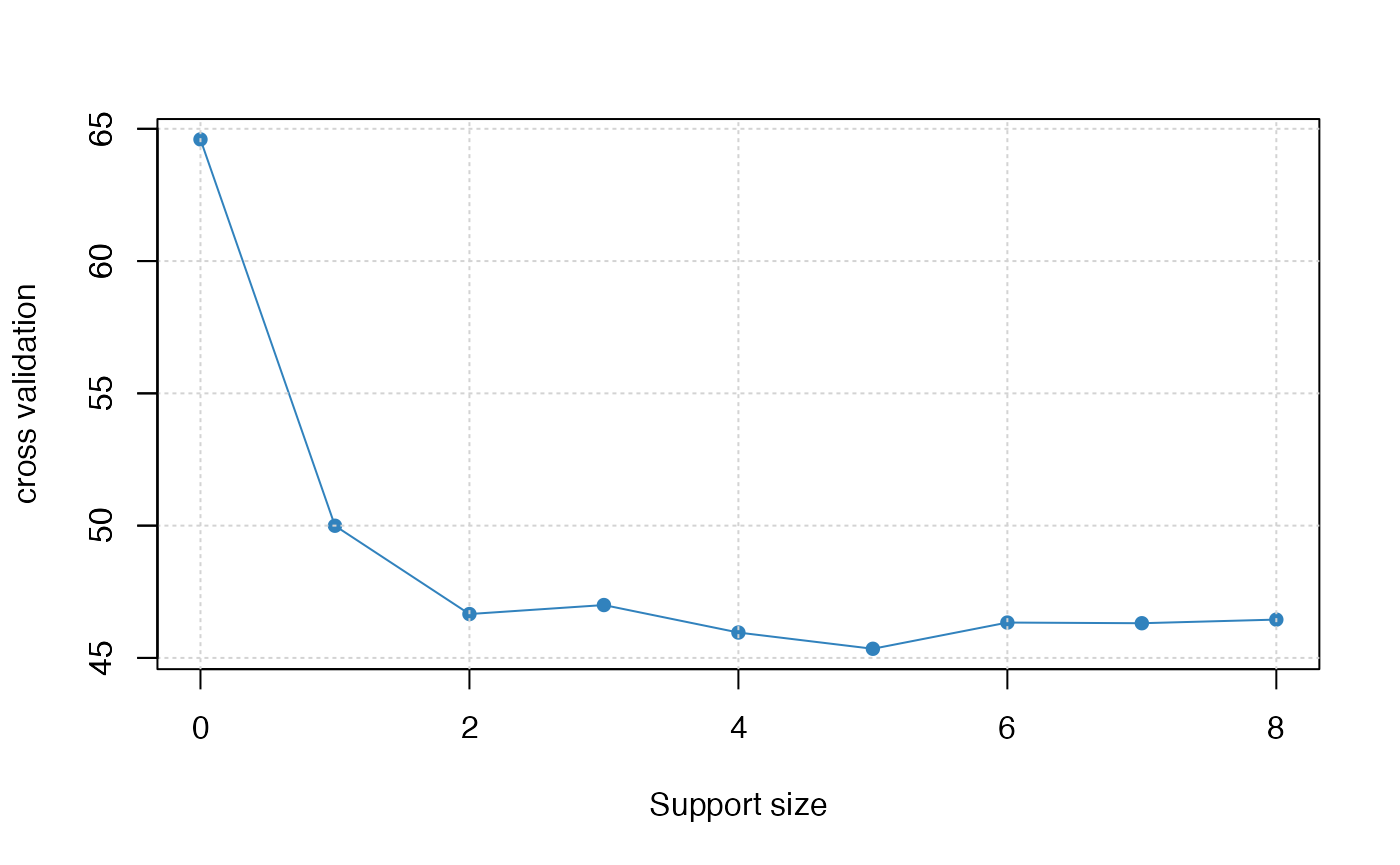
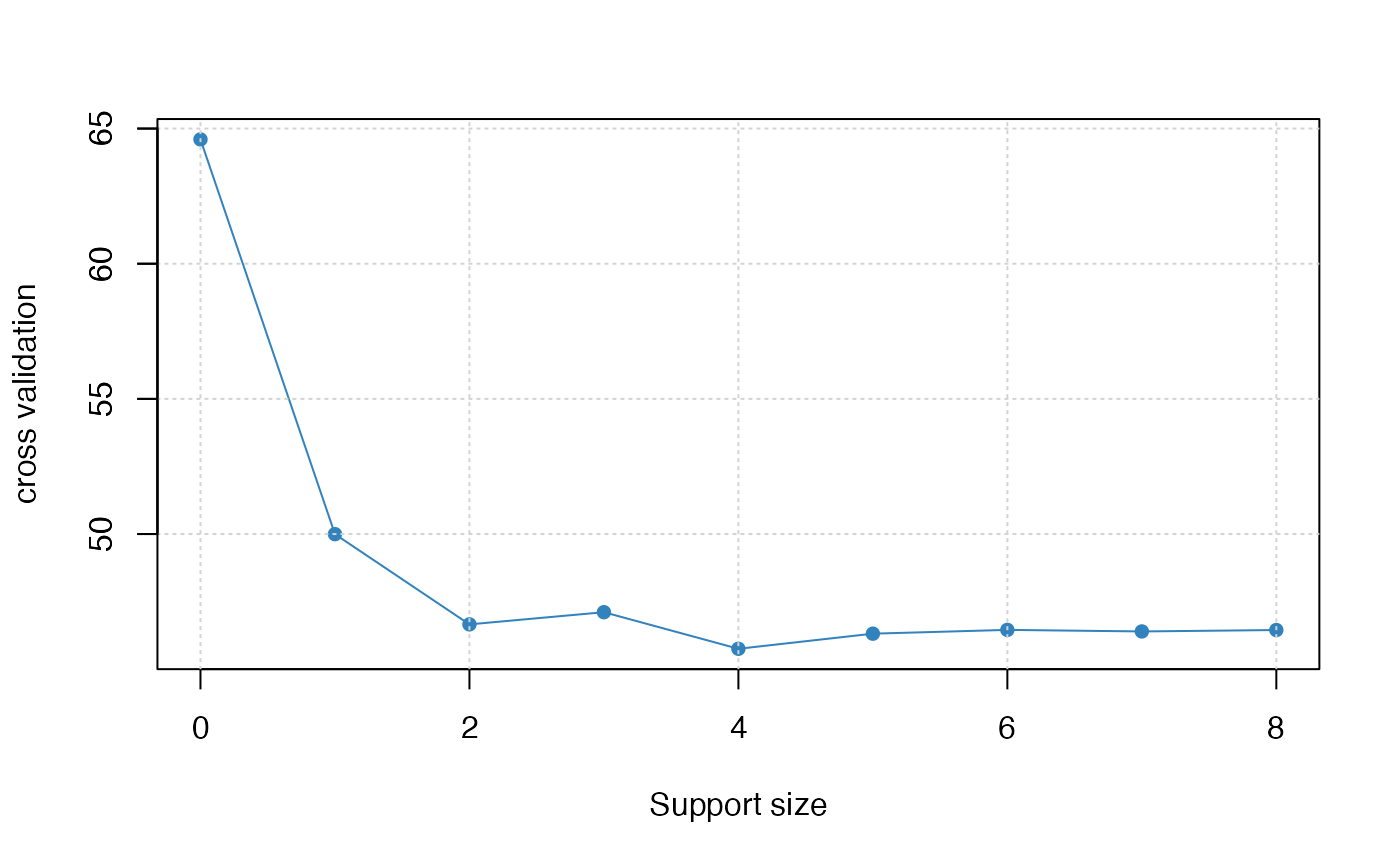
cli-40502-597

diff --git a/articles/v03-classification.html b/articles/v03-classification.html
@@ -265,12 +265,12 @@ i. print the fitted model:</p>
 <span><span class="co">## 1            0 321.9560 64.59866</span></span>
 <span><span class="co">## 2            1 246.5820 49.99585</span></span>
 <span><span class="co">## 3            2 229.6078 46.65819</span></span>
-<span><span class="co">## 4            3 229.5308 46.99849</span></span>
-<span><span class="co">## 5            4 228.9702 45.95916</span></span>
-<span><span class="co">## 6            5 220.1834 45.34507</span></span>
-<span><span class="co">## 7            6 220.0022 46.33645</span></span>
-<span><span class="co">## 8            7 219.9659 46.31131</span></span>
-<span><span class="co">## 9            8 219.9210 46.44845</span></span></code></pre>
+<span><span class="co">## 4            3 224.0843 47.10831</span></span>
+<span><span class="co">## 5            4 220.4441 45.75501</span></span>
+<span><span class="co">## 6            5 220.1834 46.31408</span></span>
+<span><span class="co">## 7            6 220.0022 46.45407</span></span>
+<span><span class="co">## 8            7 219.9602 46.39656</span></span>
+<span><span class="co">## 9            8 219.9210 46.44844</span></span></code></pre>
 <ol start="2" style="list-style-type: lower-roman">
 <li>draw the estimated coefficients on all candidate support size by
 <code><a href="https://rdrr.io/r/stats/coef.html" class="external-link">coef()</a></code> function:</li>
@@ -278,33 +278,33 @@ i. print the fitted model:</p>
 <div class="sourceCode" id="cb12"><pre class="downlit sourceCode r">
 <code class="sourceCode R"><span><span class="fu"><a href="https://rdrr.io/r/stats/coef.html" class="external-link">coef</a></span><span class="op">(</span><span class="va">abess_fit</span><span class="op">)</span></span></code></pre></div>
 <pre><code><span><span class="co">## 9 x 9 sparse Matrix of class "dgCMatrix"</span></span>
-<span><span class="co">##                      0         1          2            3            4</span></span>
-<span><span class="co">## (intercept) -0.3530971  1.158781  2.9213405  3.051182650  3.261927124</span></span>
-<span><span class="co">## Pclass       .          .        -0.7952709 -0.833342489 -0.814632212</span></span>
-<span><span class="co">## Sexmale      .         -2.545075 -2.5818944 -2.593870577 -2.590161192</span></span>
-<span><span class="co">## Age          .          .         .          .            .          </span></span>
-<span><span class="co">## SibSp        .          .         .          .            .          </span></span>
-<span><span class="co">## Parch        .          .         .          .            .          </span></span>
-<span><span class="co">## Fare         .          .         .         -0.001187223 -0.001680436</span></span>
-<span><span class="co">## EmbarkedQ    .          .         .          .            .          </span></span>
-<span><span class="co">## EmbarkedS    .          .         .          .           -0.305263064</span></span>
-<span><span class="co">##                       5            6            7            8</span></span>
-<span><span class="co">## (intercept)  4.85381911  5.112857497  5.091004680  5.079012307</span></span>
-<span><span class="co">## Pclass      -1.00849770 -1.076530668 -1.083610537 -1.085091543</span></span>
-<span><span class="co">## Sexmale     -2.59656529 -2.610623446 -2.609378045 -2.601337079</span></span>
-<span><span class="co">## Age         -0.03672237 -0.037469721 -0.037437108 -0.037259374</span></span>
-<span><span class="co">## SibSp       -0.35770273 -0.339011356 -0.340217327 -0.350406209</span></span>
-<span><span class="co">## Parch        .           .            .            0.053009526</span></span>
-<span><span class="co">## Fare         .          -0.001998009 -0.001938335 -0.002224556</span></span>
-<span><span class="co">## EmbarkedQ    .           .            0.196096062  0.210160986</span></span>
-<span><span class="co">## EmbarkedS   -0.21507393 -0.245371516 -0.210145242 -0.214986229</span></span></code></pre>
+<span><span class="co">##                      0         1          2           3           4           5</span></span>
+<span><span class="co">## (intercept) -0.3530971  1.158781  2.9213405  4.23196071  4.76830134  4.85381911</span></span>
+<span><span class="co">## Pclass       .          .        -0.7952709 -1.01705745 -1.03770046 -1.00849770</span></span>
+<span><span class="co">## Sexmale      .         -2.545075 -2.5818944 -2.51198958 -2.60544822 -2.59656529</span></span>
+<span><span class="co">## Age          .          .         .         -0.02923674 -0.03712932 -0.03672237</span></span>
+<span><span class="co">## SibSp        .          .         .          .          -0.36190220 -0.35770273</span></span>
+<span><span class="co">## Parch        .          .         .          .           .           .         </span></span>
+<span><span class="co">## Fare         .          .         .          .           .           .         </span></span>
+<span><span class="co">## EmbarkedQ    .          .         .          .           .           .         </span></span>
+<span><span class="co">## EmbarkedS    .          .         .          .           .          -0.21507393</span></span>
+<span><span class="co">##                        6            7            8</span></span>
+<span><span class="co">## (intercept)  5.112870189  5.106984422  5.079012311</span></span>
+<span><span class="co">## Pclass      -1.076540803 -1.080872143 -1.085091547</span></span>
+<span><span class="co">## Sexmale     -2.610618146 -2.600190268 -2.601337076</span></span>
+<span><span class="co">## Age         -0.037469295 -0.037121587 -0.037259374</span></span>
+<span><span class="co">## SibSp       -0.339014180 -0.350547546 -0.350406211</span></span>
+<span><span class="co">## Parch        .            0.048198890  0.053009524</span></span>
+<span><span class="co">## Fare        -0.001997874 -0.002237775 -0.002224556</span></span>
+<span><span class="co">## EmbarkedQ    .            .            0.210160985</span></span>
+<span><span class="co">## EmbarkedS   -0.245382497 -0.255782092 -0.214986232</span></span></code></pre>
 <ol start="3" style="list-style-type: lower-roman">
 <li>get the deviance of the estimated model on all candidate support
 sizes via <code><a href="https://rdrr.io/r/stats/deviance.html" class="external-link">deviance()</a></code> function:</li>
 </ol>
 <div class="sourceCode" id="cb14"><pre class="downlit sourceCode r">
 <code class="sourceCode R"><span><span class="fu"><a href="https://rdrr.io/r/stats/deviance.html" class="external-link">deviance</a></span><span class="op">(</span><span class="va">abess_fit</span><span class="op">)</span></span></code></pre></div>
-<pre><code><span><span class="co">## [1] 321.9560 246.5820 229.6078 229.5308 228.9702 220.1834 220.0022 219.9659</span></span>
+<pre><code><span><span class="co">## [1] 321.9560 246.5820 229.6078 224.0843 220.4441 220.1834 220.0022 219.9602</span></span>
 <span><span class="co">## [9] 219.9210</span></span></code></pre>
 <ol start="4" style="list-style-type: lower-roman">
 <li>visualize the change of models with the change of support size via
@@ -332,20 +332,20 @@ the model with support size equals 6.</p>
 <span><span class="fu"><a href="https://rdrr.io/r/utils/str.html" class="external-link">str</a></span><span class="op">(</span><span class="va">best.model</span><span class="op">)</span></span></code></pre></div>
 <pre><code><span><span class="co">## List of 7</span></span>
 <span><span class="co">##  $ beta        :Formal class 'dgCMatrix' [package "Matrix"] with 6 slots</span></span>
-<span><span class="co">##   .. ..@ i       : int [1:4] 0 1 5 7</span></span>
+<span><span class="co">##   .. ..@ i       : int [1:4] 0 1 2 3</span></span>
 <span><span class="co">##   .. ..@ p       : int [1:2] 0 4</span></span>
 <span><span class="co">##   .. ..@ Dim     : int [1:2] 8 1</span></span>
 <span><span class="co">##   .. ..@ Dimnames:List of 2</span></span>
 <span><span class="co">##   .. .. ..$ : chr [1:8] "Pclass" "Sexmale" "Age" "SibSp" ...</span></span>
 <span><span class="co">##   .. .. ..$ : chr "4"</span></span>
-<span><span class="co">##   .. ..@ x       : num [1:4] -0.81463 -2.59016 -0.00168 -0.30526</span></span>
+<span><span class="co">##   .. ..@ x       : num [1:4] -1.0377 -2.6054 -0.0371 -0.3619</span></span>
 <span><span class="co">##   .. ..@ factors : list()</span></span>
-<span><span class="co">##  $ intercept   : num 3.26</span></span>
+<span><span class="co">##  $ intercept   : num 4.77</span></span>
 <span><span class="co">##  $ support.size: num 4</span></span>
-<span><span class="co">##  $ support.vars: chr [1:4] "Pclass" "Sexmale" "Fare" "EmbarkedS"</span></span>
-<span><span class="co">##  $ support.beta: num [1:4] -0.81463 -2.59016 -0.00168 -0.30526</span></span>
-<span><span class="co">##  $ dev         : num 229</span></span>
-<span><span class="co">##  $ tune.value  : num 46</span></span></code></pre>
+<span><span class="co">##  $ support.vars: chr [1:4] "Pclass" "Sexmale" "Age" "SibSp"</span></span>
+<span><span class="co">##  $ support.beta: num [1:4] -1.0377 -2.6054 -0.0371 -0.3619</span></span>
+<span><span class="co">##  $ dev         : num 220</span></span>
+<span><span class="co">##  $ tune.value  : num 45.8</span></span></code></pre>
 <p>The return is a list containing the basic information of the
 estimated model.</p>
 </div>
@@ -370,7 +370,7 @@ the sinking of the Titanic if the fitted probability is greater than
 <code class="sourceCode R"><span><span class="va">fitted.results</span> <span class="op">&lt;-</span> <span class="fu"><a href="https://rdrr.io/r/base/ifelse.html" class="external-link">ifelse</a></span><span class="op">(</span><span class="va">fitted.results</span> <span class="op">&gt;</span> <span class="fl">0.5</span>, <span class="fl">1</span>, <span class="fl">0</span><span class="op">)</span></span>
 <span><span class="va">misClasificError</span> <span class="op">&lt;-</span> <span class="fu"><a href="https://rdrr.io/r/base/mean.html" class="external-link">mean</a></span><span class="op">(</span><span class="va">fitted.results</span> <span class="op">!=</span> <span class="va">test</span><span class="op">$</span><span class="va">Survived</span><span class="op">)</span></span>
 <span><span class="fu"><a href="https://rdrr.io/r/base/print.html" class="external-link">print</a></span><span class="op">(</span><span class="fu"><a href="https://rdrr.io/r/base/paste.html" class="external-link">paste</a></span><span class="op">(</span><span class="st">'Accuracy'</span>,<span class="fl">1</span><span class="op">-</span><span class="va">misClasificError</span><span class="op">)</span><span class="op">)</span></span></code></pre></div>
-<pre><code><span><span class="co">## [1] "Accuracy 0.810126582278481"</span></span></code></pre>
+<pre><code><span><span class="co">## [1] "Accuracy 0.79746835443038"</span></span></code></pre>
 <p>We can also generate an ROC and calculate the AUC value. On this
 dataset, the AUC is 0.87, which is quite close to 1.</p>
 <div class="sourceCode" id="cb23"><pre class="downlit sourceCode r">
@@ -384,7 +384,7 @@ dataset, the AUC is 0.87, which is quite close to 1.</p>
 <code class="sourceCode R"><span><span class="va">auc</span> <span class="op">&lt;-</span> <span class="fu"><a href="http://ipa-tys.github.io/ROCR/reference/performance.html" class="external-link">performance</a></span><span class="op">(</span><span class="va">pr</span>, measure <span class="op">=</span> <span class="st">"auc"</span><span class="op">)</span></span>
 <span><span class="va">auc</span> <span class="op">&lt;-</span> <span class="va">auc</span><span class="op">@</span><span class="va">y.values</span><span class="op">[[</span><span class="fl">1</span><span class="op">]</span><span class="op">]</span></span>
 <span><span class="va">auc</span></span></code></pre></div>
-<pre><code><span><span class="co">## [1] 0.8751124</span></span></code></pre>
+<pre><code><span><span class="co">## [1] 0.8739505</span></span></code></pre>
 </div>
 </div>
 <div class="section level2">

diff --git a/articles/v04-PoissonGammaReg.html b/articles/v04-PoissonGammaReg.html
@@ -362,25 +362,25 @@ tune the support size by setting <code>tune.type = "cv"</code> in
 <span><span class="fu"><a href="https://rdrr.io/r/stats/coef.html" class="external-link">coef</a></span><span class="op">(</span><span class="va">abess_fit</span><span class="op">)</span></span></code></pre></div>
 <pre><code><span><span class="co">## 7 x 7 sparse Matrix of class "dgCMatrix"</span></span>
 <span><span class="co">##                     0         1          2          3           4           5</span></span>
-<span><span class="co">## (intercept) -277.2181 -444.2161 -452.68331 -455.14237 -455.695426 -456.367166</span></span>
-<span><span class="co">## age            .         .         .          .          5.492959    6.962364</span></span>
-<span><span class="co">## sex            .         .         .          .          .         -11.180171</span></span>
-<span><span class="co">## job            .         .       -95.09321  -82.23074  -83.524509  -83.087220</span></span>
-<span><span class="co">## education      .         .         .        -65.20976  -65.602198  -65.501814</span></span>
-<span><span class="co">## region         .      -144.2534  -84.55928  -63.44139  -63.867102  -61.992224</span></span>
+<span><span class="co">## (intercept) -277.2181 -444.2162 -452.68358 -455.14238 -455.695434 -456.352800</span></span>
+<span><span class="co">## age            .         .         .          .          5.492983    6.932135</span></span>
+<span><span class="co">## sex            .         .         .          .          .         -11.246921</span></span>
+<span><span class="co">## job            .         .       -95.09195  -82.23064  -83.524466  -83.130301</span></span>
+<span><span class="co">## education      .         .         .        -65.20971  -65.602162  -65.574434</span></span>
+<span><span class="co">## region         .      -144.2534  -84.56022  -63.44148  -63.867156  -61.900510</span></span>
 <span><span class="co">## marriage       .         .         .          .          .           .       </span></span>
 <span><span class="co">##                       6</span></span>
-<span><span class="co">## (intercept) -456.420322</span></span>
-<span><span class="co">## age            6.794875</span></span>
-<span><span class="co">## sex          -11.346637</span></span>
-<span><span class="co">## job          -82.928554</span></span>
-<span><span class="co">## education    -65.419026</span></span>
-<span><span class="co">## region       -62.036716</span></span>
-<span><span class="co">## marriage      -1.783203</span></span></code></pre>
+<span><span class="co">## (intercept) -456.411167</span></span>
+<span><span class="co">## age            6.758009</span></span>
+<span><span class="co">## sex          -11.446048</span></span>
+<span><span class="co">## job          -82.970295</span></span>
+<span><span class="co">## education    -65.530386</span></span>
+<span><span class="co">## region       -61.918597</span></span>
+<span><span class="co">## marriage      -1.833652</span></span></code></pre>
 <div class="sourceCode" id="cb30"><pre class="downlit sourceCode r">
 <code class="sourceCode R"><span><span class="co"># get the deviance of the estimated model on all candidate support size</span></span>
 <span><span class="fu"><a href="https://rdrr.io/r/stats/deviance.html" class="external-link">deviance</a></span><span class="op">(</span><span class="va">abess_fit</span><span class="op">)</span></span></code></pre></div>
-<pre><code><span><span class="co">## [1] -462.4805 -498.1930 -503.9212 -505.4016 -505.4117 -505.4433 -505.4442</span></span></code></pre>
+<pre><code><span><span class="co">## [1] -462.4805 -498.1930 -503.9212 -505.4016 -505.4117 -505.4434 -505.4443</span></span></code></pre>
 <div class="sourceCode" id="cb32"><pre class="downlit sourceCode r">
 <code class="sourceCode R"><span><span class="co"># print the fitted model</span></span>
 <span><span class="fu"><a href="https://rdrr.io/r/base/print.html" class="external-link">print</a></span><span class="op">(</span><span class="va">abess_fit</span><span class="op">)</span></span></code></pre></div>
@@ -390,22 +390,22 @@ tune the support size by setting <code>tune.type = "cv"</code> in
 <span><span class="co">## </span></span>
 <span><span class="co">##   support.size       dev         cv</span></span>
 <span><span class="co">## 1            0 -462.4805  -88.64702</span></span>
-<span><span class="co">## 2            1 -498.1930  -94.02883</span></span>
-<span><span class="co">## 3            2 -503.9212  -99.44427</span></span>
-<span><span class="co">## 4            3 -505.4016 -100.94370</span></span>
+<span><span class="co">## 2            1 -498.1930  -94.02901</span></span>
+<span><span class="co">## 3            2 -503.9212  -99.44424</span></span>
+<span><span class="co">## 4            3 -505.4016 -100.94369</span></span>
 <span><span class="co">## 5            4 -505.4117 -100.99783</span></span>
-<span><span class="co">## 6            5 -505.4433 -100.99987</span></span>
-<span><span class="co">## 7            6 -505.4442 -101.00528</span></span></code></pre>
+<span><span class="co">## 6            5 -505.4434 -101.00148</span></span>
+<span><span class="co">## 7            6 -505.4443 -101.00700</span></span></code></pre>
 <div class="sourceCode" id="cb34"><pre class="downlit sourceCode r">
 <code class="sourceCode R"><span><span class="co"># predict results for given support sizes</span></span>
 <span><span class="fu"><a href="https://rdrr.io/r/utils/head.html" class="external-link">head</a></span><span class="op">(</span><span class="fu"><a href="https://rdrr.io/r/stats/predict.html" class="external-link">predict</a></span><span class="op">(</span><span class="va">abess_fit</span>, newx <span class="op">=</span> <span class="va">dat</span><span class="op">$</span><span class="va">x</span>, support.size <span class="op">=</span> <span class="fu"><a href="https://rdrr.io/r/base/c.html" class="external-link">c</a></span><span class="op">(</span><span class="fl">3</span>, <span class="fl">4</span><span class="op">)</span><span class="op">)</span><span class="op">)</span></span></code></pre></div>
 <pre><code><span><span class="co">##              3         4</span></span>
 <span><span class="co">## [1,] -615.2481 -620.5800</span></span>
-<span><span class="co">## [2,] -645.9886 -648.1139</span></span>
-<span><span class="co">## [3,] -675.9042 -683.6169</span></span>
+<span><span class="co">## [2,] -645.9886 -648.1140</span></span>
+<span><span class="co">## [3,] -675.9039 -683.6168</span></span>
 <span><span class="co">## [4,] -378.1178 -369.1630</span></span>
-<span><span class="co">## [5,] -348.6865 -344.9450</span></span>
-<span><span class="co">## [6,] -735.3057 -744.0305</span></span></code></pre>
+<span><span class="co">## [5,] -348.6866 -344.9450</span></span>
+<span><span class="co">## [6,] -735.3054 -744.0304</span></span></code></pre>
 <div class="sourceCode" id="cb36"><pre class="downlit sourceCode r">
 <code class="sourceCode R"><span><span class="fu"><a href="https://rdrr.io/r/graphics/plot.default.html" class="external-link">plot</a></span><span class="op">(</span><span class="va">abess_fit</span>, label <span class="op">=</span> <span class="cn">TRUE</span><span class="op">)</span></span></code></pre></div>
 <p><img src="v04-PoissonGammaReg_files/figure-html/unnamed-chunk-9-1.png" width="700"></p>
@@ -440,9 +440,9 @@ tune the support size by setting <code>tune.type = "cv"</code> in
 <span><span class="co">##                   3</span></span>
 <span><span class="co">## age         .      </span></span>
 <span><span class="co">## sex         .      </span></span>
-<span><span class="co">## job       -82.23074</span></span>
-<span><span class="co">## education -65.20976</span></span>
-<span><span class="co">## region    -63.44139</span></span>
+<span><span class="co">## job       -82.23064</span></span>
+<span><span class="co">## education -65.20971</span></span>
+<span><span class="co">## region    -63.44148</span></span>
 <span><span class="co">## marriage    .</span></span></code></pre>
 </div>
   </div>

diff --git a/reference/abess.html b/reference/abess.html
@@ -680,29 +680,29 @@ Please see <a href="https://abess-team.github.io/abess/articles/v07-advancedFeat
 <span class="r-in"><span><span class="op">)</span></span></span>
 <span class="r-out co"><span class="r-pr">#&gt;</span> $`3`</span>
 <span class="r-out co"><span class="r-pr">#&gt;</span>                  1            2             </span>
-<span class="r-out co"><span class="r-pr">#&gt;</span>  [1,] 3.195017e-01 6.796457e-01 8.526168e-04</span>
-<span class="r-out co"><span class="r-pr">#&gt;</span>  [2,] 9.926804e-01 2.440769e-07 7.319339e-03</span>
-<span class="r-out co"><span class="r-pr">#&gt;</span>  [3,] 1.994460e-08 1.143640e-05 9.999885e-01</span>
-<span class="r-out co"><span class="r-pr">#&gt;</span>  [4,] 1.922586e-09 1.000000e+00 1.508266e-08</span>
-<span class="r-out co"><span class="r-pr">#&gt;</span>  [5,] 9.983970e-01 1.644067e-08 1.602936e-03</span>
-<span class="r-out co"><span class="r-pr">#&gt;</span>  [6,] 4.380697e-01 4.031366e-01 1.587937e-01</span>
-<span class="r-out co"><span class="r-pr">#&gt;</span>  [7,] 1.752319e-05 6.737499e-01 3.262325e-01</span>
-<span class="r-out co"><span class="r-pr">#&gt;</span>  [8,] 1.397245e-06 9.834317e-01 1.656692e-02</span>
-<span class="r-out co"><span class="r-pr">#&gt;</span>  [9,] 2.634460e-04 1.642882e-01 8.354483e-01</span>
-<span class="r-out co"><span class="r-pr">#&gt;</span> [10,] 5.926379e-03 2.231757e-07 9.940734e-01</span>
+<span class="r-out co"><span class="r-pr">#&gt;</span>  [1,] 3.195041e-01 6.796433e-01 8.526063e-04</span>
+<span class="r-out co"><span class="r-pr">#&gt;</span>  [2,] 9.926808e-01 2.440578e-07 7.318950e-03</span>
+<span class="r-out co"><span class="r-pr">#&gt;</span>  [3,] 1.994159e-08 1.143617e-05 9.999885e-01</span>
+<span class="r-out co"><span class="r-pr">#&gt;</span>  [4,] 1.922364e-09 1.000000e+00 1.508214e-08</span>
+<span class="r-out co"><span class="r-pr">#&gt;</span>  [5,] 9.983972e-01 1.643894e-08 1.602810e-03</span>
+<span class="r-out co"><span class="r-pr">#&gt;</span>  [6,] 4.380700e-01 4.031365e-01 1.587936e-01</span>
+<span class="r-out co"><span class="r-pr">#&gt;</span>  [7,] 1.752119e-05 6.737502e-01 3.262323e-01</span>
+<span class="r-out co"><span class="r-pr">#&gt;</span>  [8,] 1.397077e-06 9.834318e-01 1.656678e-02</span>
+<span class="r-out co"><span class="r-pr">#&gt;</span>  [9,] 2.634263e-04 1.642880e-01 8.354486e-01</span>
+<span class="r-out co"><span class="r-pr">#&gt;</span> [10,] 5.926216e-03 2.231685e-07 9.940736e-01</span>
 <span class="r-out co"><span class="r-pr">#&gt;</span> </span>
 <span class="r-out co"><span class="r-pr">#&gt;</span> $`4`</span>
 <span class="r-out co"><span class="r-pr">#&gt;</span>                  1            2             </span>
-<span class="r-out co"><span class="r-pr">#&gt;</span>  [1,] 1.483046e-01 8.516877e-01 7.775863e-06</span>
-<span class="r-out co"><span class="r-pr">#&gt;</span>  [2,] 9.997506e-01 1.127507e-06 2.483044e-04</span>
-<span class="r-out co"><span class="r-pr">#&gt;</span>  [3,] 5.751049e-11 3.022517e-09 1.000000e+00</span>
-<span class="r-out co"><span class="r-pr">#&gt;</span>  [4,] 3.633749e-11 1.000000e+00 7.527284e-13</span>
-<span class="r-out co"><span class="r-pr">#&gt;</span>  [5,] 9.911478e-01 5.629997e-10 8.852214e-03</span>
-<span class="r-out co"><span class="r-pr">#&gt;</span>  [6,] 5.815429e-01 1.173098e-01 3.011473e-01</span>
-<span class="r-out co"><span class="r-pr">#&gt;</span>  [7,] 3.581712e-06 2.443243e-02 9.755640e-01</span>
-<span class="r-out co"><span class="r-pr">#&gt;</span>  [8,] 9.683059e-07 9.846617e-01 1.533729e-02</span>
-<span class="r-out co"><span class="r-pr">#&gt;</span>  [9,] 2.219995e-04 7.084179e-01 2.913601e-01</span>
-<span class="r-out co"><span class="r-pr">#&gt;</span> [10,] 2.934309e-03 1.071389e-07 9.970656e-01</span>
+<span class="r-out co"><span class="r-pr">#&gt;</span>  [1,] 1.483045e-01 8.516878e-01 7.775763e-06</span>
+<span class="r-out co"><span class="r-pr">#&gt;</span>  [2,] 9.997506e-01 1.127463e-06 2.482974e-04</span>
+<span class="r-out co"><span class="r-pr">#&gt;</span>  [3,] 5.750486e-11 3.022432e-09 1.000000e+00</span>
+<span class="r-out co"><span class="r-pr">#&gt;</span>  [4,] 3.633381e-11 1.000000e+00 7.527000e-13</span>
+<span class="r-out co"><span class="r-pr">#&gt;</span>  [5,] 9.911483e-01 5.629530e-10 8.851709e-03</span>
+<span class="r-out co"><span class="r-pr">#&gt;</span>  [6,] 5.815431e-01 1.173096e-01 3.011473e-01</span>
+<span class="r-out co"><span class="r-pr">#&gt;</span>  [7,] 3.581466e-06 2.443225e-02 9.755642e-01</span>
+<span class="r-out co"><span class="r-pr">#&gt;</span>  [8,] 9.682266e-07 9.846618e-01 1.533721e-02</span>
+<span class="r-out co"><span class="r-pr">#&gt;</span>  [9,] 2.219851e-04 7.084184e-01 2.913596e-01</span>
+<span class="r-out co"><span class="r-pr">#&gt;</span> [10,] 2.934244e-03 1.071362e-07 9.970656e-01</span>
 <span class="r-out co"><span class="r-pr">#&gt;</span> </span>
 <span class="r-in"><span></span></span>
 <span class="r-in"><span><span class="co">################ Ordinal regression  ################</span></span></span>

diff --git a/articles/v09-fasterSetting.html b/articles/v09-fasterSetting.html
@@ -234,8 +234,8 @@ the runtime in <code>t1</code>:</p>
 <code class="sourceCode R"><span><span class="va">t2</span> <span class="op">&lt;-</span> <span class="fu"><a href="https://rdrr.io/r/base/system.time.html" class="external-link">system.time</a></span><span class="op">(</span><span class="va">abess_fit</span> <span class="op">&lt;-</span> <span class="fu"><a href="../reference/abess.html">abess</a></span><span class="op">(</span><span class="va">x</span>, <span class="va">y</span><span class="op">)</span><span class="op">)</span></span>
 <span><span class="fu"><a href="https://rdrr.io/r/base/cbind.html" class="external-link">rbind</a></span><span class="op">(</span><span class="va">t1</span>, <span class="va">t2</span><span class="op">)</span><span class="op">[</span>, <span class="fl">1</span><span class="op">:</span><span class="fl">3</span><span class="op">]</span></span></code></pre></div>
 <pre><code><span><span class="co">##    user.self sys.self elapsed</span></span>
-<span><span class="co">## t1     0.161    0.003   0.166</span></span>
-<span><span class="co">## t2     0.124    0.004   0.128</span></span></code></pre>
+<span><span class="co">## t1     0.215    0.001   0.216</span></span>
+<span><span class="co">## t2     0.169    0.007   0.176</span></span></code></pre>
 <p>From the comparison, we see that the time required by sparse matrix
 is visibly smaller, and thus, we suggest to assign a sparse matrix to
 <code>abess</code> when the input matrix have a lot of zero entries.</p>
@@ -299,8 +299,8 @@ likely to be a non-optimal one:</p>
 <code class="sourceCode R"><span><span class="va">t2</span> <span class="op">&lt;-</span> <span class="fu"><a href="https://rdrr.io/r/base/system.time.html" class="external-link">system.time</a></span><span class="op">(</span><span class="va">abess_fit</span> <span class="op">&lt;-</span> <span class="fu"><a href="../reference/abess.html">abess</a></span><span class="op">(</span><span class="va">y</span> <span class="op">~</span> <span class="va">.</span>, data <span class="op">=</span> <span class="va">dat</span><span class="op">)</span><span class="op">)</span></span>
 <span><span class="fu"><a href="https://rdrr.io/r/base/cbind.html" class="external-link">rbind</a></span><span class="op">(</span><span class="va">t1</span>, <span class="va">t2</span><span class="op">)</span><span class="op">[</span>, <span class="fl">1</span><span class="op">:</span><span class="fl">3</span><span class="op">]</span></span></code></pre></div>
 <pre><code><span><span class="co">##    user.self sys.self elapsed</span></span>
-<span><span class="co">## t1     0.007    0.000   0.008</span></span>
-<span><span class="co">## t2     0.023    0.001   0.023</span></span></code></pre>
+<span><span class="co">## t1     0.011    0.001   0.012</span></span>
+<span><span class="co">## t2     0.041    0.001   0.041</span></span></code></pre>
 </div>
 <div class="section level2">
 <h2 id="early-stop">Early stop<a class="anchor" aria-label="anchor" href="#early-stop"></a>
@@ -389,8 +389,8 @@ with the ABESS without early-stopping:</p>
 <code class="sourceCode R"><span><span class="va">t2</span> <span class="op">&lt;-</span> <span class="fu"><a href="https://rdrr.io/r/base/system.time.html" class="external-link">system.time</a></span><span class="op">(</span><span class="va">abess_fit</span> <span class="op">&lt;-</span> <span class="fu"><a href="../reference/abess.html">abess</a></span><span class="op">(</span><span class="va">y</span> <span class="op">~</span> <span class="va">.</span>, data <span class="op">=</span> <span class="va">dat</span><span class="op">)</span><span class="op">)</span></span>
 <span><span class="fu"><a href="https://rdrr.io/r/base/cbind.html" class="external-link">rbind</a></span><span class="op">(</span><span class="va">t1</span>, <span class="va">t2</span><span class="op">)</span><span class="op">[</span>, <span class="fl">1</span><span class="op">:</span><span class="fl">3</span><span class="op">]</span></span></code></pre></div>
 <pre><code><span><span class="co">##    user.self sys.self elapsed</span></span>
-<span><span class="co">## t1     0.021    0.001   0.022</span></span>
-<span><span class="co">## t2     0.021    0.001   0.023</span></span></code></pre>
+<span><span class="co">## t1     0.042    0.000   0.043</span></span>
+<span><span class="co">## t2     0.040    0.001   0.041</span></span></code></pre>
 <p>we can conclude that early-stopping brings fast computation and might
 maintain statistical guarantee.</p>
 </div>

diff --git a/reference/abesspca.html b/reference/abesspca.html
@@ -399,10 +399,10 @@ because the meaning of these parameters are very similar.</p>
 <span class="r-out co"><span class="r-pr">#&gt;</span> abesspca(x = rob_cov, type = "gram")</span>
 <span class="r-out co"><span class="r-pr">#&gt;</span> </span>
 <span class="r-out co"><span class="r-pr">#&gt;</span>   PC support.size       ev       pev</span>
-<span class="r-out co"><span class="r-pr">#&gt;</span> 1  1            1 6515.126 0.9621261</span>
-<span class="r-out co"><span class="r-pr">#&gt;</span> 2  1            2 6546.491 0.9667580</span>
-<span class="r-out co"><span class="r-pr">#&gt;</span> 3  1            3 6574.156 0.9708434</span>
-<span class="r-out co"><span class="r-pr">#&gt;</span> 4  1            4 6587.176 0.9727661</span>
+<span class="r-out co"><span class="r-pr">#&gt;</span> 1  1            1 5389.433 0.9451258</span>
+<span class="r-out co"><span class="r-pr">#&gt;</span> 2  1            2 5467.001 0.9587285</span>
+<span class="r-out co"><span class="r-pr">#&gt;</span> 3  1            3 5525.057 0.9689096</span>
+<span class="r-out co"><span class="r-pr">#&gt;</span> 4  1            4 5535.616 0.9707613</span>
 <span class="r-in"><span></span></span>
 <span class="r-in"><span><span class="co">## K-component principal component analysis</span></span></span>
 <span class="r-in"><span><span class="va">pca_fit</span> <span class="op">&lt;-</span> <span class="fu">abesspca</span><span class="op">(</span><span class="va">USArrests</span>,</span></span>

diff --git a/articles/v07-advancedFeatures.html b/articles/v07-advancedFeatures.html
@@ -264,7 +264,7 @@ performance.</p>
 <span>  <span class="va">err.l0l2</span><span class="op">[</span><span class="va">i</span><span class="op">]</span> <span class="op">&lt;-</span> <span class="va">pe.l0</span></span>
 <span><span class="op">}</span></span>
 <span><span class="fu"><a href="https://rdrr.io/r/base/mean.html" class="external-link">mean</a></span><span class="op">(</span><span class="va">err.l0</span><span class="op">)</span></span></code></pre></div>
-<pre><code><span><span class="co">## [1] 133.5348</span></span></code></pre>
+<pre><code><span><span class="co">## [1] 133.4154</span></span></code></pre>
 <div class="sourceCode" id="cb11"><pre class="downlit sourceCode r">
 <code class="sourceCode R"><span><span class="fu"><a href="https://rdrr.io/r/base/mean.html" class="external-link">mean</a></span><span class="op">(</span><span class="va">err.l0l2</span><span class="op">)</span></span></code></pre></div>
 <pre><code><span><span class="co">## [1] 152.9791</span></span></code></pre>
